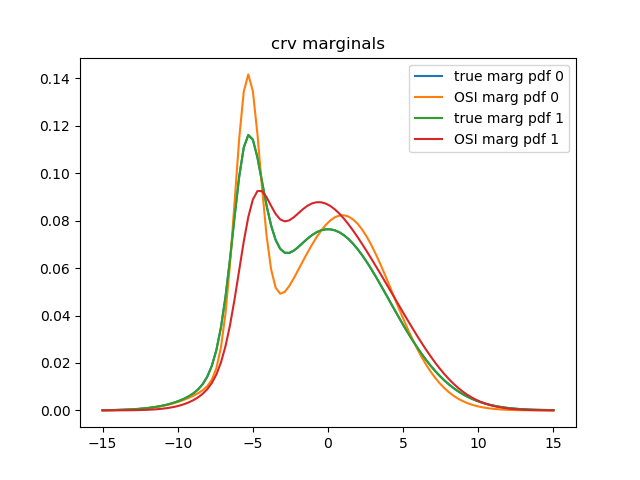
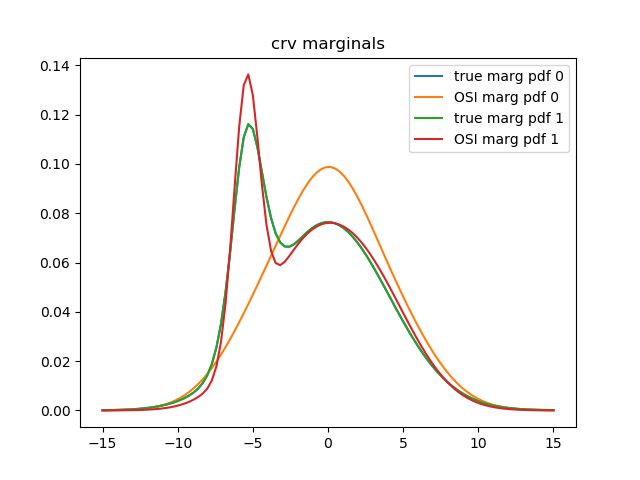
fix issue with LOSI in serious_hybrid_mln_experiment.py (problem was with rv.nb inconsistency in cond_g; was not a problem for exact/GS baseline or OSI, but was for color passing); seems to do OK (OSI final bfe=-8.53973, LOSI final bfe=-8.43827) although there wasn't much compression at all
EPBP avg time 0.20506999100000023
OSI avg time 6.324283900999999
LOSI avg time 6.348817306999997
EPBP diff 5.238472356198834
EPBP std 5.960464477539063e-08
OSI diff 0.3770863099504864
OSI std 0.31378002189224974
LOSI diff 2.70433902443408
LOSI std 2.5871990350694696

diff --git a/osi/serious_hybrid_mln_experiment.py b/osi/serious_hybrid_mln_experiment.py
@@ -264,38 +264,39 @@ for test_num in range(num_tests):
     print(name, 'diff', np.average(np.average(abs(res), axis=1)))
     print(name, 'var', np.average(np.average(res ** 2, axis=1)) - np.average(np.average(abs(res), axis=1)) ** 2)
 
-    # name = 'LOSI'
-    # if cond:
-    #     cg = CompressedGraphSorted(cond_g)
-    # else:
-    #     cg = CompressedGraphSorted(g)  # technically incorrect; currently we should run LOSI on the conditional MRF
-    # cg.run()
-    # print('number of rvs in cg', len(cg.rvs))
-    # print('number of factors in cg', len(cg.factors))
-    # losi = LiftedOneShot(g=cg, K=K, T=T,
-    #                      seed=seed)  # can be moved outside of all loops if the ground MRF doesn't change
-    # for j in range(num_runs):
-    #     # utils.set_seed(test_seed + j)
-    #     start_time = time.process_time()
-    #     losi.run(lr=lr, its=its, fix_mix_its=fix_mix_its, logging_itv=logging_itv)
-    #     time_cost[name] = (time.process_time() - start_time) / num_runs / num_tests + time_cost.get(name, 0)
-    #     print(name, f'time {time.process_time() - start_time}')
-    #     for i, key in enumerate(key_list):
-    #         rv = rvs_table[key]
-    #         if cond:
-    #             mmap = losi.map(obs_rvs=[], query_rv=rv)
-    #         else:
-    #             mmap = losi.map(obs_rvs=obs_rvs, query_rv=rv)
-    #         res[i, j] = mmap
-    #     print(res[:, j])
-    #     # print(osi.params)
-    #     print('Mu =\n', losi.params['Mu'], '\nVar =\n', losi.params['Var'])
-    # for i, key in enumerate(key_list):
-    #     res[i, :] -= ans[key]
-    # avg_diff[name] = np.average(np.average(abs(res), axis=1)) / num_tests + avg_diff.get(name, 0)
-    # err_var[name] = np.average(np.average(res ** 2, axis=1)) / num_tests + err_var.get(name, 0)
-    # print(name, 'diff', np.average(np.average(abs(res), axis=1)))
-    # print(name, 'var', np.average(np.average(res ** 2, axis=1)) - np.average(np.average(abs(res), axis=1)) ** 2)
+    name = 'LOSI'
+    if cond:
+        cond_g.init_nb()  # this will make cond_g rvs' .nb attributes consistent (baseline/OSI didn't care so it was OK)
+        cg = CompressedGraphSorted(cond_g)
+    else:
+        cg = CompressedGraphSorted(g)  # technically incorrect; currently we should run LOSI on the conditional MRF
+    cg.run()
+    print('number of rvs in cg', len(cg.rvs))
+    print('number of factors in cg', len(cg.factors))
+    losi = LiftedOneShot(g=cg, K=K, T=T,
+                         seed=seed)  # can be moved outside of all loops if the ground MRF doesn't change
+    for j in range(num_runs):
+        # utils.set_seed(test_seed + j)
+        start_time = time.process_time()
+        losi.run(lr=lr, its=its, fix_mix_its=fix_mix_its, logging_itv=logging_itv)
+        time_cost[name] = (time.process_time() - start_time) / num_runs / num_tests + time_cost.get(name, 0)
+        print(name, f'time {time.process_time() - start_time}')
+        for i, key in enumerate(key_list):
+            rv = rvs_table[key]
+            if cond:
+                mmap = losi.map(obs_rvs=[], query_rv=rv)
+            else:
+                mmap = losi.map(obs_rvs=obs_rvs, query_rv=rv)
+            res[i, j] = mmap
+        print(res[:, j])
+        # print(osi.params)
+        print('Mu =\n', losi.params['Mu'], '\nVar =\n', losi.params['Var'])
+    for i, key in enumerate(key_list):
+        res[i, :] -= ans[key]
+    avg_diff[name] = np.average(np.average(abs(res), axis=1)) / num_tests + avg_diff.get(name, 0)
+    err_var[name] = np.average(np.average(res ** 2, axis=1)) / num_tests + err_var.get(name, 0)
+    print(name, 'diff', np.average(np.average(abs(res), axis=1)))
+    print(name, 'var', np.average(np.average(res ** 2, axis=1)) - np.average(np.average(abs(res), axis=1)) ** 2)
 
 print('plotting example marginal from last run')
 
@@ -314,6 +315,9 @@ for test_crv_idx in range(len(Vc)):
     if baseline == 'gibbs':
         plt.hist(hgsampler.cont_samples[:, test_crv_idx], normed=True, label='samples')
 
+    plot_losi = True
+    if plot_losi:
+        osi = losi
     osi_test_crv_marg_params = osi.params['w'], osi.params['Mu'][test_crv_idx], osi.params['Var'][test_crv_idx]
     plt.plot(xs, np.exp(utils.get_scalar_gm_log_prob(xs, w=osi_test_crv_marg_params[0], mu=osi_test_crv_marg_params[1],
                                                      var=osi_test_crv_marg_params[2])),
